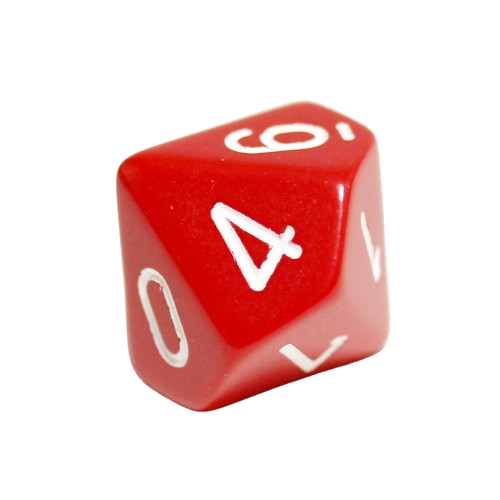
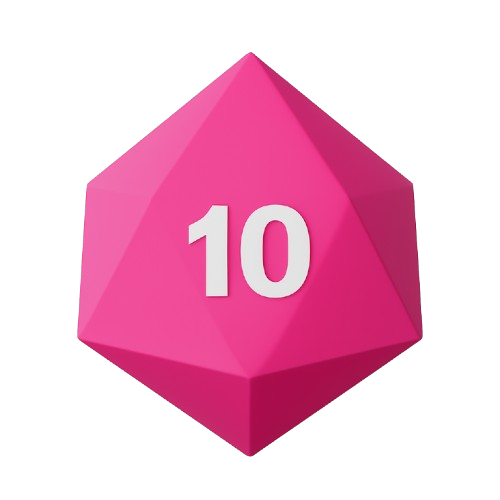
alterado as imagens dos dados

diff --git a/src/app/views/home/home.css b/src/app/views/home/home.css
@@ -1,9 +1,9 @@
 main {
-  background-image: url('/tavern.jpg');
+  background-image: linear-gradient(rgba(0, 0, 0, 0.3), rgba(0, 0, 0, 0.5)), url('/tavern.jpg');
   background-size: cover;
   background-position: center;
   background-repeat: no-repeat;
-  height: 90vh;
+  height: 91vh;
   display: flex;
   justify-content: center;
 }
@@ -17,44 +17,59 @@ main {
   width: 90vw;
 
   .titulo {
-    font-size: 32px;
+    font-family: "Cinzel Decorative", serif;
+    font-size: 48px;
+    color: #4b2e0f;
+    text-shadow: 2px 2px 4px rgba(134, 134, 134, 0.6);
 
   }
 
   .section-die {
     display: flex;
+    gap: 20px;
 
     .img-dado {
       width: 130px;
+      transition: transform 0.3s ease, box-shadow 0.3s ease, border 0.3s ease;
+      border: 3px solid transparent;
+      border-radius: 10px;
     }
 
     .img-dado:hover {
       filter: drop-shadow(0 0 0px white) drop-shadow(0 0 10px white);
       cursor: pointer;
     }
+
+    .dado-selecionado {
+      transform: scale(1.1);
+      filter: drop-shadow(0 0 5px #00ffff) drop-shadow(0 0 15px #00ffff);
+    }
   }
 
-.resultado {
-  position: relative;
-  display: inline-block;
 
-  img {
-    display: block;
-    /* width: 300px;  */
-  }
 
-  p {
-    position: absolute;
-    top: 50%;
-    left: 50%;
-    transform: translate(-50%, -50%);
-    font-family: 'MedievalSharp', cursive;
-    font-size: 140px;
-    color: #000;
-    margin: 0;
-    pointer-events: none; /* impede que clique no texto afete algo */
+  .resultado {
+    position: relative;
+    display: inline-block;
+
+    img {
+      display: block;
+      /* width: 300px;  */
+    }
+
+    p {
+      position: absolute;
+      top: 50%;
+      left: 50%;
+      transform: translate(-50%, -50%);
+      font-family: 'MedievalSharp', cursive;
+      font-size: 140px;
+      color: #000;
+      margin: 0;
+      pointer-events: none;
+      /* impede que clique no texto afete algo */
+    }
   }
-}
 
 }
 
@@ -74,7 +89,7 @@ main {
 
 
 
-
+/* Estilizaçao separada do botção */
 .button {
   position: relative;
   display: inline-block;

diff --git a/src/app/views/home/home.html b/src/app/views/home/home.html
@@ -9,9 +9,10 @@
 
     <div class="section-die">
       <img class="img-dado" [src]="'/d' + dado.lados + '.png'" [alt]="'Dado de ' + dado.lados + ' lados'"
-        (click)="selecionarDado(dado.lados)" *ngFor="let dado of dados">
-
+        [ngClass]="{'dado-selecionado': dadoSelecionado === dado.lados}" (click)="selecionarDado(dado.lados)"
+        *ngFor="let dado of dados">
     </div>
+
     <div class="button">
       <button class="roll" (click)="rolarDado()">Roll</button>
     </div>
